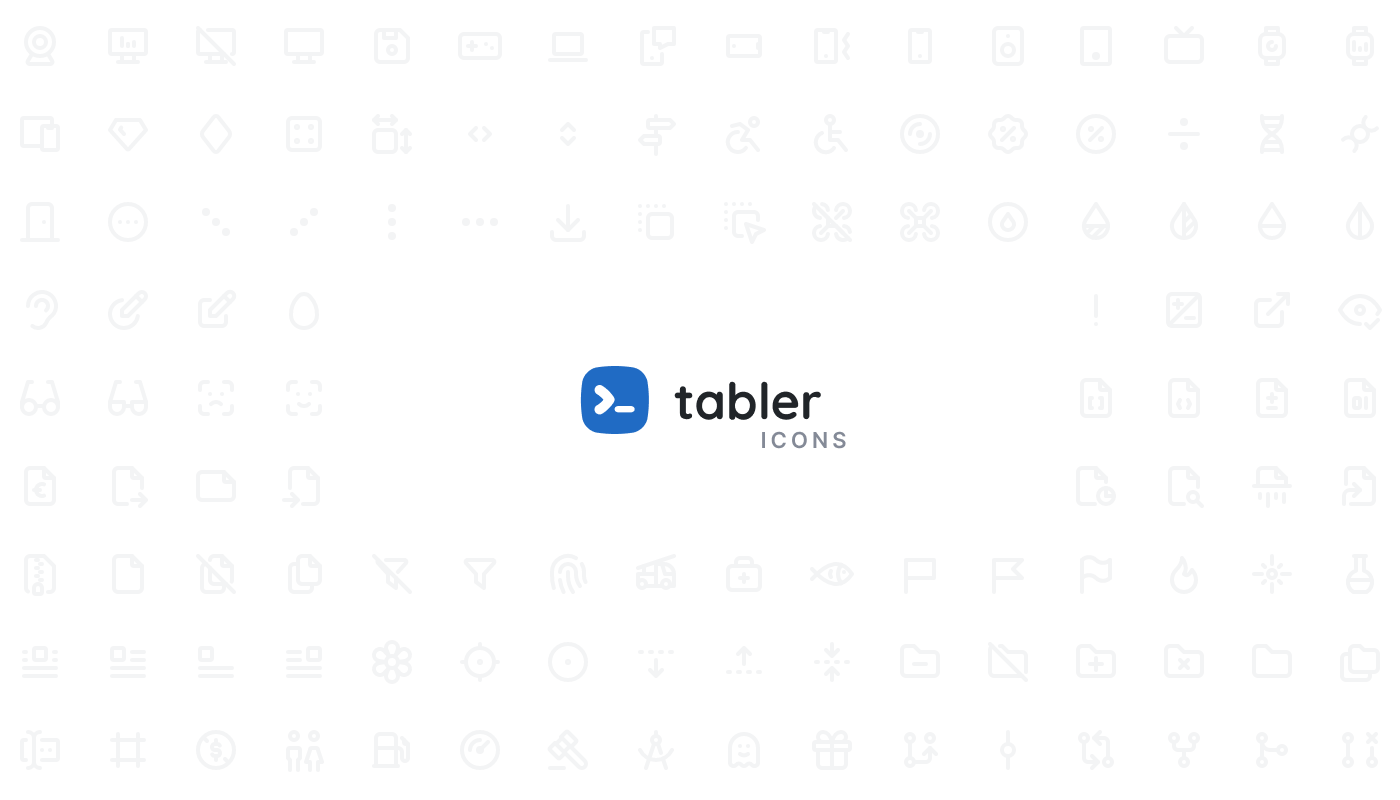
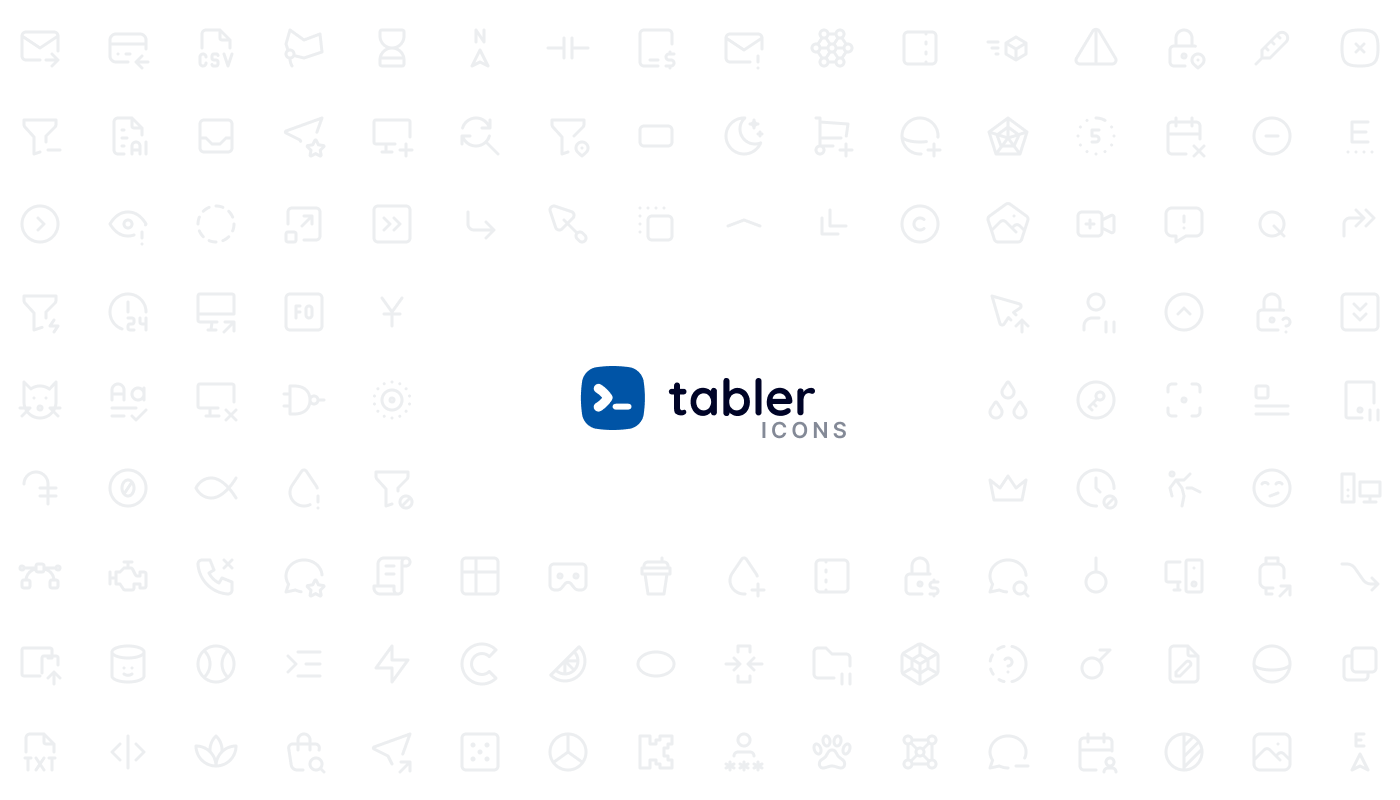
Fix og image for sprite package in README (#1020)
* Fix og image for sprite package in README

* og images fixes

---------

Changed region(s): [[0.3993, 0.4375, 0.6143, 0.5625]]

diff --git a/README.md b/README.md
@@ -1,5 +1,5 @@
 <p align="center">
-  <img src="https://raw.githubusercontent.com/tabler/tabler-icons/master/.github/packages/og-core.png" alt="Tabler Icons" width="838">
+  <img src="https://raw.githubusercontent.com/tabler/tabler-icons/main/.github/packages/og-core.png" alt="Tabler Icons" width="838">
 </p>
 
 <p align="center">
@@ -103,7 +103,7 @@ React components available through [`@tabler/icons-react`](https://www.npmjs.com
 import { IconAward } from '@tabler/icons-react';
 
 const MyComponent = () => {
-  return <IconAward 
+  return <IconAward
     size={36} // set custom `width` and `height`
     color="red" // set `stroke` color
     stroke={3}  // set `stroke-width`
@@ -165,10 +165,10 @@ For more details, see the [documentation](https://github.com/tabler/tabler-icons
 
 ### Angular
 
-Angular components available through [`angular-tabler-icons`](https://www.npmjs.com/package/angular-tabler-icons) package.  
+Angular components available through [`angular-tabler-icons`](https://www.npmjs.com/package/angular-tabler-icons) package.
 Install the package, then create icons module:
 
-```ts  
+```ts
 import { NgModule } from '@angular/core';
 
 import { TablerIconsModule } from 'angular-tabler-icons';

diff --git a/packages/icons-sprite/README.md b/packages/icons-sprite/README.md
@@ -1,7 +1,7 @@
 # Tabler Icons
 
 <p align="center">
-  <img src="https://raw.githubusercontent.com/tabler/tabler-icons/master/.github/packages/og-core.png" alt="Tabler Icons" width="838">
+  <img src="https://raw.githubusercontent.com/tabler/tabler-icons/main/.github/packages/og-package-sprite.png" alt="Tabler Icons" width="838">
 </p>
 
 <p align="center">
@@ -47,7 +47,7 @@ or just [download from Github](https://github.com/tabler/tabler-icons/releases).
 
 ## Usage
 
-Add an icon to be displayed on your page with the following markup (`activity` in the above example can be replaced with any valid icon name):
+Add an icon to be displayed on your page with the following markup (`activity` in the following example can be replaced with any valid icon name):
 
 ```html
 <svg width="24" height="24">

diff --git a/packages/icons-solidjs/README.md b/packages/icons-solidjs/README.md
@@ -1,7 +1,7 @@
 # Tabler Icons for SolidJS
 
 <p align="center">
-  <img src="https://raw.githubusercontent.com/tabler/tabler-icons/master/.github/packages/og-package-solidjs.png" alt="Tabler Icons" width="838">
+  <img src="https://raw.githubusercontent.com/tabler/tabler-icons/main/.github/packages/og-package-solidjs.png" alt="Tabler Icons" width="838">
 </p>
 
 <p align="center">

diff --git a/packages/icons-preact/README.md b/packages/icons-preact/README.md
@@ -1,7 +1,7 @@
 # Tabler Icons for Preact
 
 <p align="center">
-  <img src="https://raw.githubusercontent.com/tabler/tabler-icons/master/.github/packages/og-package-preact.png" alt="Tabler Icons" width="838">
+  <img src="https://raw.githubusercontent.com/tabler/tabler-icons/main/.github/packages/og-package-preact.png" alt="Tabler Icons" width="838">
 </p>
 
 <p align="center">

diff --git a/packages/icons-svelte/README.md b/packages/icons-svelte/README.md
@@ -1,7 +1,7 @@
 # Tabler Icons for Svelte
 
 <p align="center">
-  <img src="https://raw.githubusercontent.com/tabler/tabler-icons/master/.github/packages/og-package-svelte.png" alt="Tabler Icons" width="838">
+  <img src="https://raw.githubusercontent.com/tabler/tabler-icons/main/.github/packages/og-package-svelte.png" alt="Tabler Icons" width="838">
 </p>
 
 <p align="center">

diff --git a/packages/icons-webfont/README.md b/packages/icons-webfont/README.md
@@ -1,7 +1,7 @@
 # Tabler Icons Webfont
 
 <p align="center">
-  <img src="https://raw.githubusercontent.com/tabler/tabler-icons/master/.github/packages/og-package-webfont.png" alt="Tabler Icons" width="838">
+  <img src="https://raw.githubusercontent.com/tabler/tabler-icons/main/.github/packages/og-package-webfont.png" alt="Tabler Icons" width="838">
 </p>
 
 <p align="center">

diff --git a/packages/icons-react-native/README.md b/packages/icons-react-native/README.md
@@ -1,7 +1,7 @@
 # Tabler Icons for React
 
 <p align="center">
-  <img src="https://raw.githubusercontent.com/tabler/tabler-icons/master/.github/packages/og-package-react.png" alt="Tabler Icons" width="838">
+  <img src="https://raw.githubusercontent.com/tabler/tabler-icons/main/.github/packages/og-package-react.png" alt="Tabler Icons" width="838">
 </p>
 
 <p align="center">

diff --git a/packages/icons-react/README.md b/packages/icons-react/README.md
@@ -1,7 +1,7 @@
 # Tabler Icons for React
 
 <p align="center">
-  <img src="https://raw.githubusercontent.com/tabler/tabler-icons/master/.github/packages/og-package-react.png" alt="Tabler Icons" width="838">
+  <img src="https://raw.githubusercontent.com/tabler/tabler-icons/main/.github/packages/og-package-react.png" alt="Tabler Icons" width="838">
 </p>
 
 <p align="center">

diff --git a/packages/icons-vue/README.md b/packages/icons-vue/README.md
@@ -1,7 +1,7 @@
 # Tabler Icons for Vue
 
 <p align="center">
-  <img src="https://raw.githubusercontent.com/tabler/tabler-icons/master/.github/packages/og-package-vue.png" alt="Tabler Icons" width="838">
+  <img src="https://raw.githubusercontent.com/tabler/tabler-icons/main/.github/packages/og-package-vue.png" alt="Tabler Icons" width="838">
 </p>
 
 <p align="center">

diff --git a/packages/icons-eps/README.md b/packages/icons-eps/README.md
@@ -1,7 +1,7 @@
 # Tabler Icons EPS
 
 <p align="center">
-  <img src="https://raw.githubusercontent.com/tabler/tabler-icons/master/.github/packages/og-package-eps.png" alt="Tabler Icons" width="838">
+  <img src="https://raw.githubusercontent.com/tabler/tabler-icons/main/.github/packages/og-package-eps.png" alt="Tabler Icons" width="838">
 </p>
 
 <p align="center">

diff --git a/packages/icons-pdf/README.md b/packages/icons-pdf/README.md
@@ -1,7 +1,7 @@
 # Tabler Icons PDF
 
 <p align="center">
-  <img src="https://raw.githubusercontent.com/tabler/tabler-icons/master/.github/packages/og-package-pdf.png" alt="Tabler Icons" width="838">
+  <img src="https://raw.githubusercontent.com/tabler/tabler-icons/main/.github/packages/og-package-pdf.png" alt="Tabler Icons" width="838">
 </p>
 
 <p align="center">

diff --git a/packages/icons-png/README.md b/packages/icons-png/README.md
@@ -1,7 +1,7 @@
 # Tabler Icons PNG
 
 <p align="center">
-  <img src="https://raw.githubusercontent.com/tabler/tabler-icons/master/.github/packages/og-package-png.png" alt="Tabler Icons" width="838">
+  <img src="https://raw.githubusercontent.com/tabler/tabler-icons/main/.github/packages/og-package-png.png" alt="Tabler Icons" width="838">
 </p>
 
 <p align="center">
